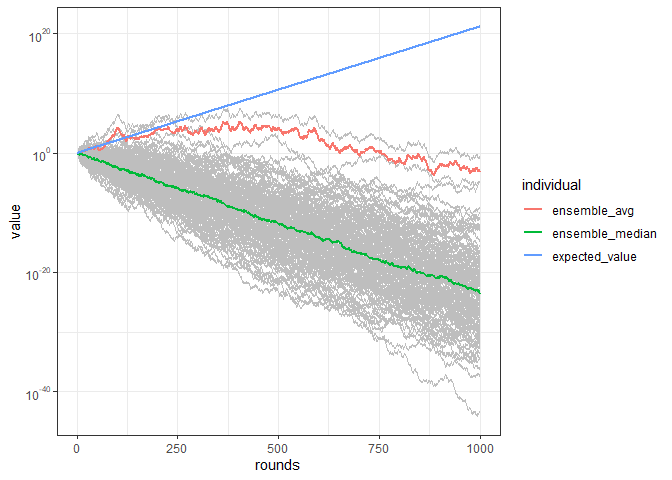
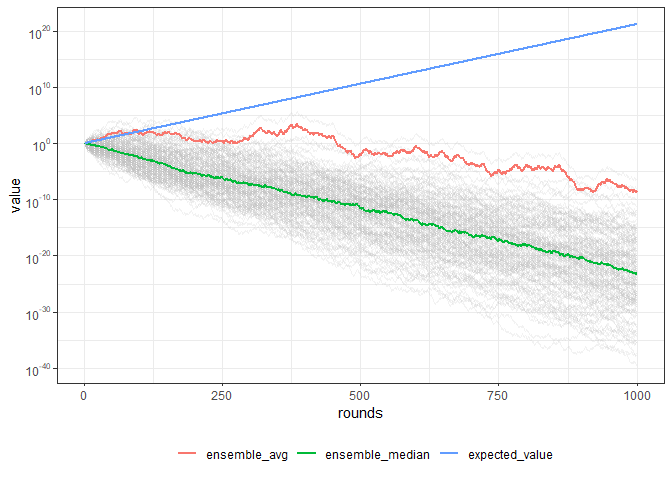
new plot and readme

diff --git a/README.md b/README.md
@@ -11,16 +11,17 @@ First objective was to replicate Fig. 2 of this
 ## Code Optimization
 
 In order to try to optimise code for a larger tibble, I have momentarily
-divided the code in 3 different phases: \* Tibble Generation \*
-Transformation \* Plotting
+divided the code in 3 different phases: - Tibble Generation -
+Transformation - Plotting
 
-The code below is taking the same input given to the paper.
+The code below is taking the same input given to the paper but instead
+of 150 players with 1k.
 
 ### Tibble Generation
 
-The bottleneck here is replicate which is nesting sapply that is nesting
-lapply. So with a large number of players a lot of vectors are created
-through lapply.
+The bottleneck here is replicate, which is nesting sapply, that is
+nesting lapply. So with a large number of players a lot of vectors are
+created through lapply.
 
 ``` r
 assign("EV", ((0.6 * 0.5) + (1.5 * 0.5)), envir = .GlobalEnv)
@@ -55,10 +56,11 @@ focus <- c("ensemble_avg", "expected_value", "ensemble_median")
 
 ggplot() +
   geom_line(
-    subset(df,!individual %in% focus),
+    subset(df, !individual %in% focus),
     mapping = aes(x = rounds, y = value, group = individual),
+    color = "grey",
     size = 0.5,
-    color = "grey"
+    alpha = 0.2
   ) +
   geom_line(
     subset(df, individual %in% focus),
@@ -70,7 +72,9 @@ ggplot() +
       10 ^ x),
     labels = trans_format("log10", math_format(10 ^ .x))
   ) +
-  theme_bw()
+  labs(color = "") +
+  theme_bw() +
+  theme(legend.position = "bottom")
 ```
 
 ![](README-unnamed-chunk-4-1.png)<!-- -->
